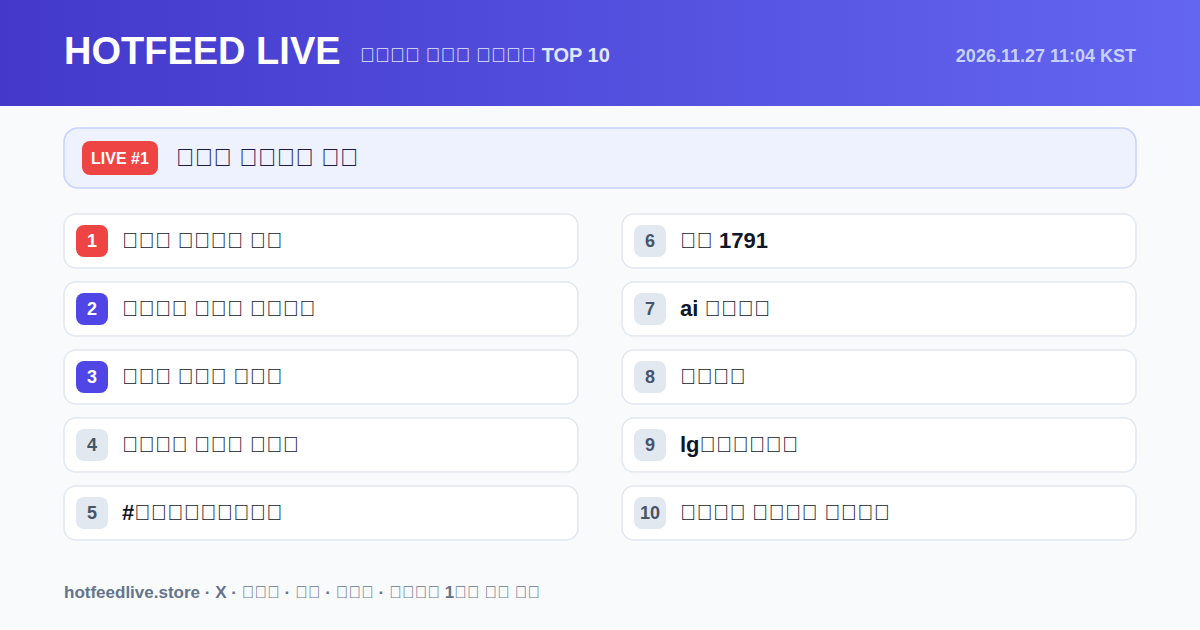
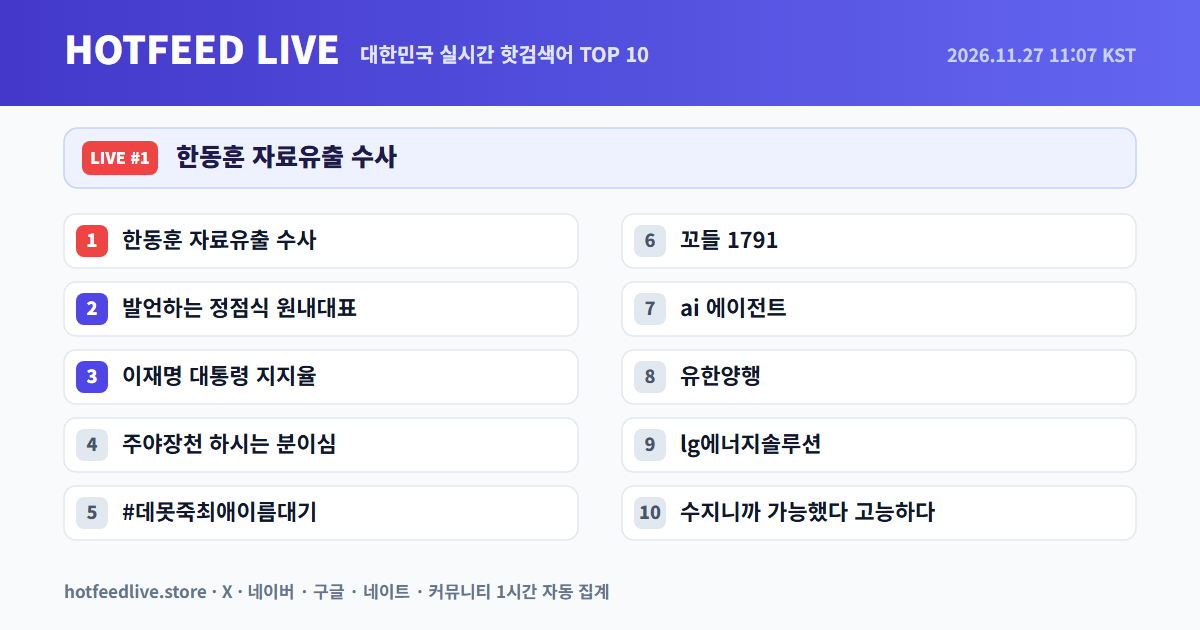
Fix Ubuntu Korean font (fonts-nanum) for OG PNG and harden Indexing key parsing

diff --git a/collector.py b/collector.py
@@ -696,8 +696,8 @@ def generate_og_image(data, out_dir):
         svg_rows.append(
             f'<rect x="{x}" y="{y - 34}" width="514" height="54" rx="12" fill="#ffffff" stroke="#e2e8f0" stroke-width="1.5"/>'
             f'<rect x="{x + 12}" y="{y - 23}" width="32" height="32" rx="8" fill="{badge_bg}"/>'
-            f'<text x="{x + 28}" y="{y - 1}" text-anchor="middle" font-size="18" fill="{badge_fg}" font-weight="800" font-family="Pretendard Variable, Noto Sans KR, Malgun Gothic, sans-serif">{i + 1}</text>'
-            f'<text x="{x + 58}" y="{y}" font-size="22" fill="#0f172a" font-weight="700" font-family="Pretendard Variable, Noto Sans KR, Malgun Gothic, sans-serif">{_xml_escape(display_kw)}</text>'
+            f'<text x="{x + 28}" y="{y - 1}" text-anchor="middle" font-size="18" fill="{badge_fg}" font-weight="800" font-family="NanumGothic, Pretendard Variable, Noto Sans KR, Malgun Gothic, sans-serif">{i + 1}</text>'
+            f'<text x="{x + 58}" y="{y}" font-size="22" fill="#0f172a" font-weight="700" font-family="NanumGothic, Pretendard Variable, Noto Sans KR, Malgun Gothic, sans-serif">{_xml_escape(display_kw)}</text>'
         )
 
     svg = f'''<svg xmlns="http://www.w3.org/2000/svg" width="1200" height="630" viewBox="0 0 1200 630">
@@ -709,15 +709,15 @@ def generate_og_image(data, out_dir):
   </defs>
   <rect width="1200" height="630" fill="#f8fafc"/>
   <rect width="1200" height="106" fill="url(#hdr)"/>
-  <text x="64" y="64" font-size="38" fill="#ffffff" font-weight="800" font-family="Pretendard Variable, Noto Sans KR, Malgun Gothic, sans-serif">HOTFEED LIVE</text>
-  <text x="360" y="62" font-size="20" fill="#e0e7ff" font-weight="600" font-family="Pretendard Variable, Noto Sans KR, Malgun Gothic, sans-serif">대한민국 실시간 핫검색어 TOP 10</text>
-  <text x="1136" y="62" text-anchor="end" font-size="18" fill="#c7d2fe" font-weight="600" font-family="Pretendard Variable, Noto Sans KR, Malgun Gothic, sans-serif">{time_label}</text>
+  <text x="64" y="64" font-size="38" fill="#ffffff" font-weight="800" font-family="NanumGothic, Pretendard Variable, Noto Sans KR, Malgun Gothic, sans-serif">HOTFEED LIVE</text>
+  <text x="360" y="62" font-size="20" fill="#e0e7ff" font-weight="600" font-family="NanumGothic, Pretendard Variable, Noto Sans KR, Malgun Gothic, sans-serif">대한민국 실시간 핫검색어 TOP 10</text>
+  <text x="1136" y="62" text-anchor="end" font-size="18" fill="#c7d2fe" font-weight="600" font-family="NanumGothic, Pretendard Variable, Noto Sans KR, Malgun Gothic, sans-serif">{time_label}</text>
   <rect x="64" y="128" width="1072" height="60" rx="14" fill="#eef2ff" stroke="#c7d2fe" stroke-width="1.5"/>
   <rect x="82" y="141" width="76" height="34" rx="8" fill="#ef4444"/>
-  <text x="120" y="164" text-anchor="middle" font-size="16" fill="#ffffff" font-weight="800" font-family="Pretendard Variable, Noto Sans KR, Malgun Gothic, sans-serif">LIVE #1</text>
-  <text x="176" y="166" font-size="25" fill="#1e1b4b" font-weight="800" font-family="Pretendard Variable, Noto Sans KR, Malgun Gothic, sans-serif">{_xml_escape(top1[:34])}</text>
+  <text x="120" y="164" text-anchor="middle" font-size="16" fill="#ffffff" font-weight="800" font-family="NanumGothic, Pretendard Variable, Noto Sans KR, Malgun Gothic, sans-serif">LIVE #1</text>
+  <text x="176" y="166" font-size="25" fill="#1e1b4b" font-weight="800" font-family="NanumGothic, Pretendard Variable, Noto Sans KR, Malgun Gothic, sans-serif">{_xml_escape(top1[:34])}</text>
   {chr(10).join(svg_rows)}
-  <text x="64" y="598" font-size="17" fill="#64748b" font-weight="600" font-family="Pretendard Variable, Noto Sans KR, Malgun Gothic, sans-serif">hotfeedlive.store · X · 네이버 · 구글 · 네이트 · 커뮤니티 1시간 자동 집계</text>
+  <text x="64" y="598" font-size="17" fill="#64748b" font-weight="600" font-family="NanumGothic, Pretendard Variable, Noto Sans KR, Malgun Gothic, sans-serif">hotfeedlive.store · X · 네이버 · 구글 · 네이트 · 커뮤니티 1시간 자동 집계</text>
 </svg>'''
 
     svg_path = os.path.join(out_dir, "og-image.svg")

diff --git a/google_indexing.py b/google_indexing.py
@@ -45,6 +45,7 @@ def _find_openssl():
 
 def _sign_rs256(message_bytes, private_key_pem):
     """Sign with RS256 using cryptography if installed, else openssl CLI."""
+    private_key_pem = private_key_pem.replace("\\n", "\n")
     try:
         from cryptography.hazmat.primitives import hashes, serialization
         from cryptography.hazmat.primitives.asymmetric import padding
@@ -129,13 +130,14 @@ def load_service_account(source=None):
         with open(source, "r", encoding="utf-8") as f:
             return json.load(f)
 
-    raw_env = os.environ.get("GOOGLE_INDEXING_SA_JSON", "").strip()
+    raw_env = os.environ.get("GOOGLE_INDEXING_SA_JSON", "").lstrip("\ufeff").strip()
     if raw_env:
         if raw_env.startswith("{"):
             return json.loads(raw_env)
         if os.path.exists(raw_env):
-            with open(raw_env, "r", encoding="utf-8") as f:
+            with open(raw_env, "r", encoding="utf-8-sig") as f:
                 return json.load(f)
+        raise ValueError("GOOGLE_INDEXING_SA_JSON is set but does not start with '{' (invalid JSON).")
 
     return None
 
